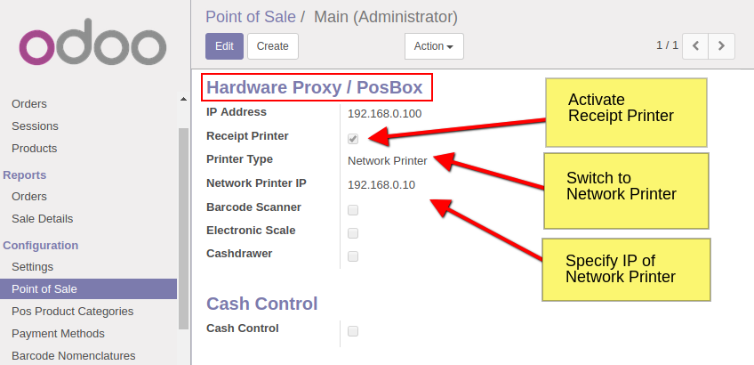
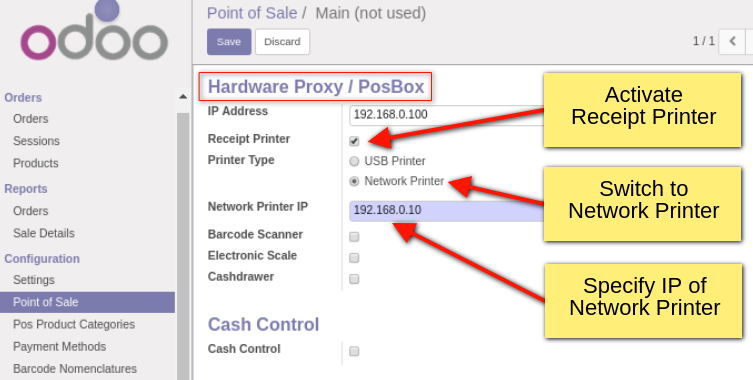
[DOC] updated doc

diff --git a/pos_printer_network/static/description/index.html b/pos_printer_network/static/description/index.html
@@ -138,7 +138,7 @@
               Check the <b>Network Printer</b> box at <em>Hardware Proxy/PosBox</em> section
 		  </li>
         <li>
-            Switch <b>Printer Type</b> to "Network Printer"
+            <b>Printer Type</b> has 2 values: "USB Printer" and "Network Printer". Switch it to "Network Printer"
         </li>
 		  <li>
               Specify <b>Network Printer IP</b>

diff --git a/pos_printer_network/doc/index.rst b/pos_printer_network/doc/index.rst
@@ -23,10 +23,13 @@ Order Printers
 
   * Click on ``[Create]``
   * Specify a name of new printer in the **Printer Name** field
-  * Specify the proxy server IP address of network printer
+  * Specify **IP address** of network printer
   * Check the **[x] Network Printer** box if this printer is a network printer
-  * Select Product Categories
+  * Select **Printed Product Categories**
   * Click on ``[Save]``
+
+* Go to ``Point of Sale >> Configuration >> Point of Sale``
+
   * Open POS configuration form
   * Click on ``[Edit]``
   * Add an item (network printer) in the **Order Printers** menu
@@ -41,7 +44,7 @@ Receipt Printer
   * Click on ``[Edit]``
   * Check **[x] Network Printer** box for ``Hardware Proxy / PosBox``
   * Switch **Printer Type** to ``Network Printer``
-  * Specify the network printer IP address for Receipt Printer
+  * Specify **Network Printer IP** address for Receipt Printer
   * Click on ``[Save]``
 
 Usage
